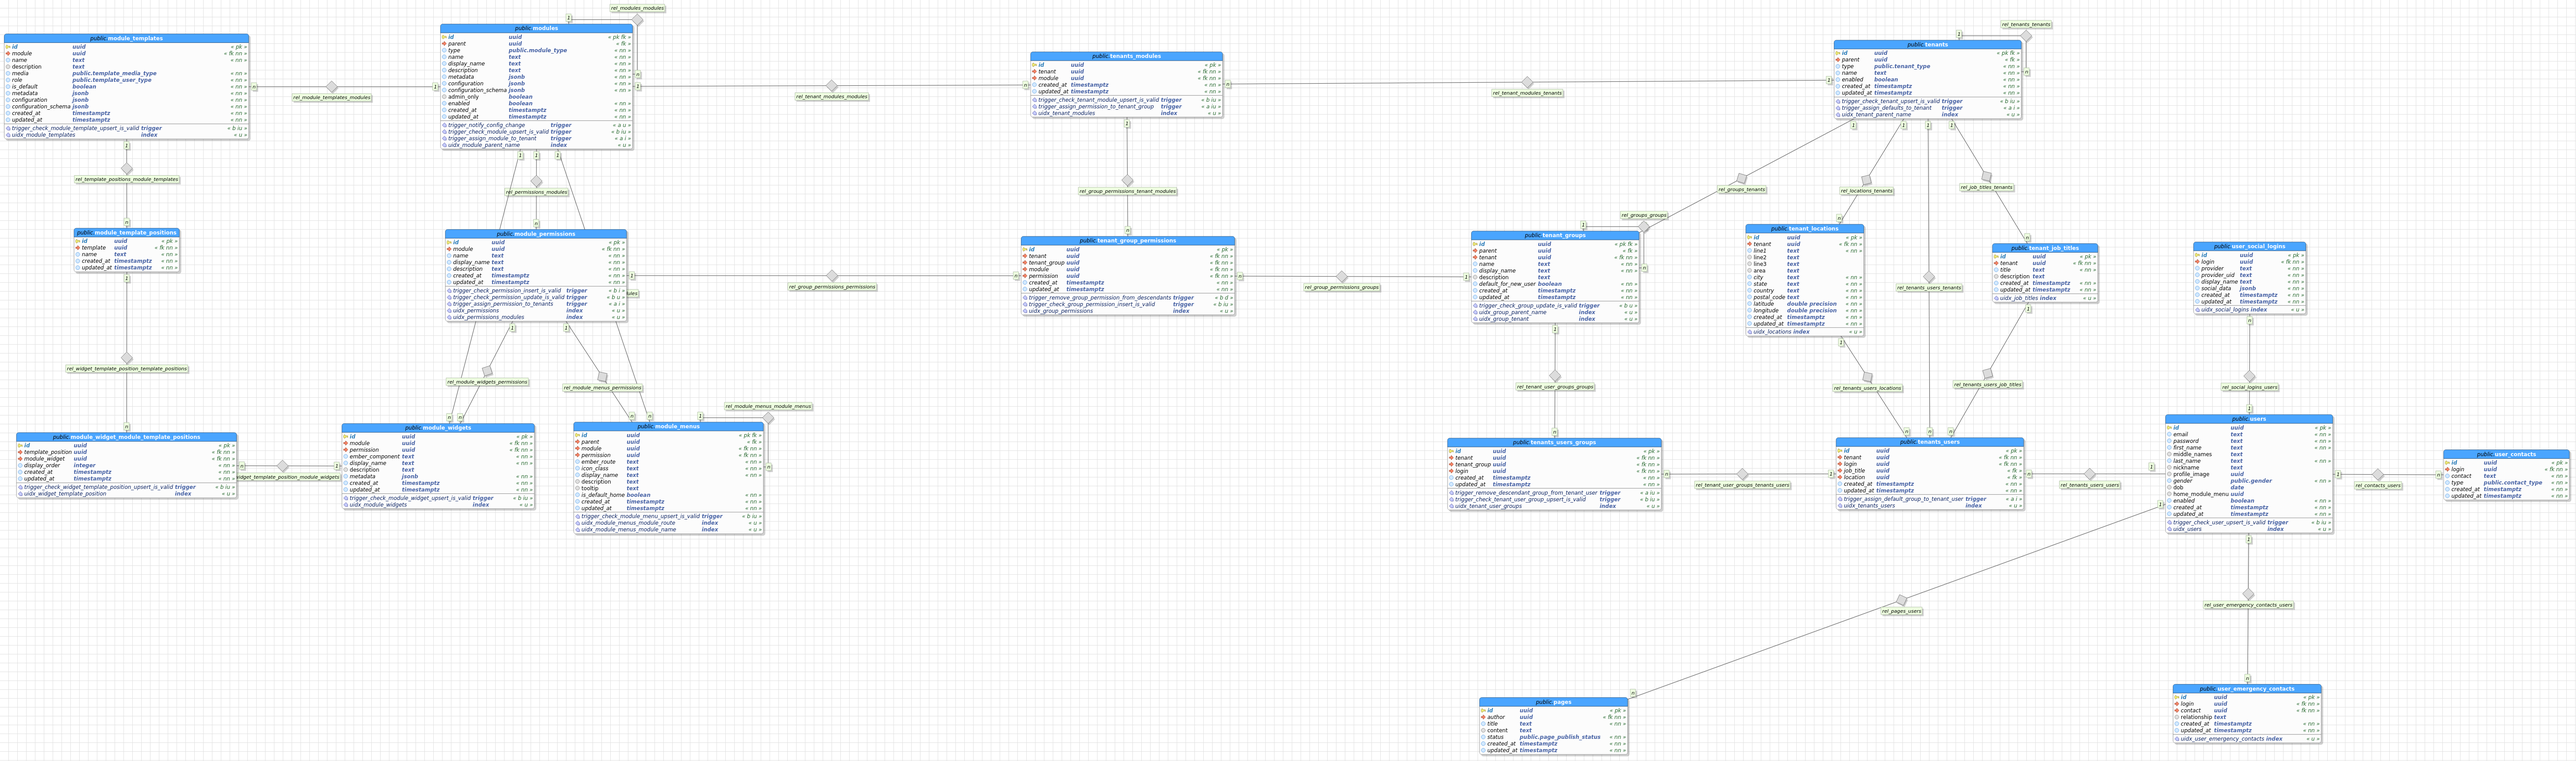
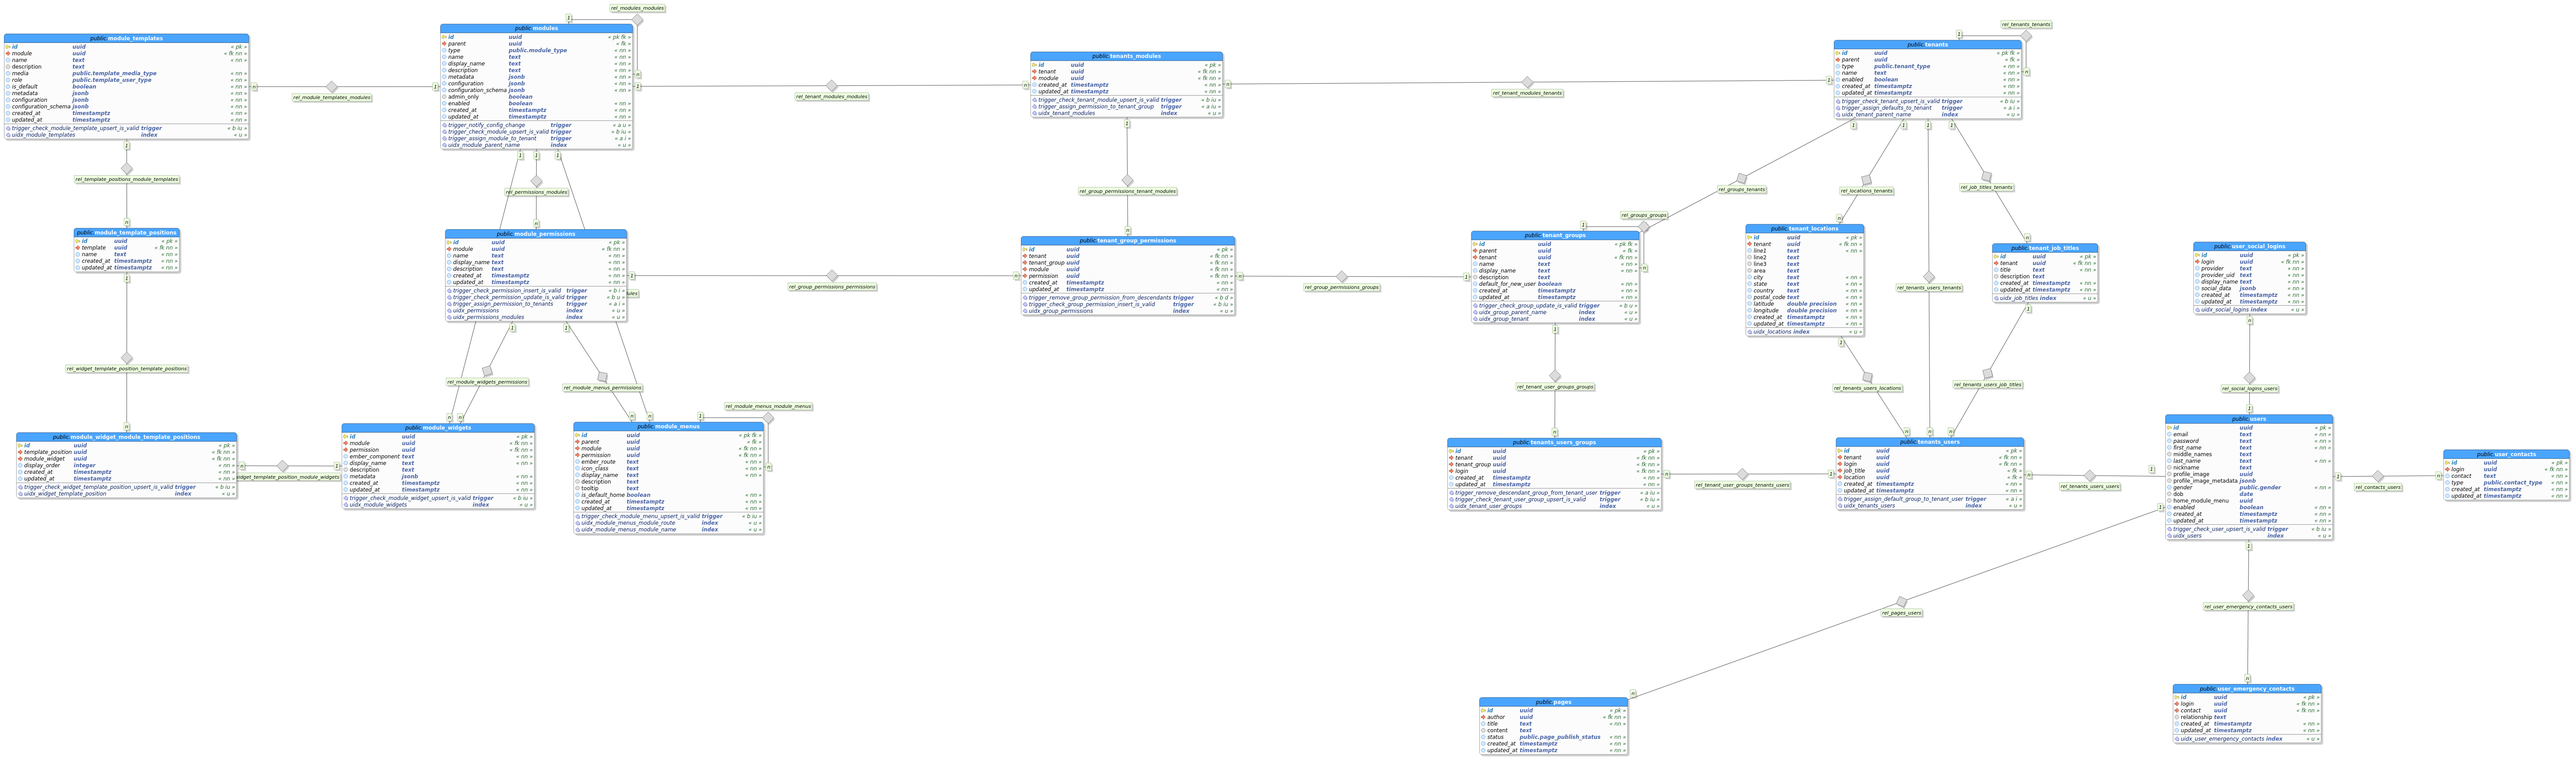
Moved image uploads to the Portal Server, added functionality for DnD Profile Image uploads, added functionality to upload images in the Pages component CK Editor, and minor changes

diff --git a/app/modules/components/pages/component.js b/app/modules/components/pages/component.js
@@ -50,7 +50,6 @@ var pagesComponent = prime({
 			})
 			.then(function(pageAuthorPermissionId) {
 				self['$pageAuthorPermissionId'] = pageAuthorPermissionId.rows[0].id;
-				self['$mediaLibraryPath'] = path.isAbsolute(self.$config.mediaLibraryPath) ? self.$config.mediaLibraryPath : path.join(self.basePath, self.$config.mediaLibraryPath);
 
 				// Define the models....
 				Object.defineProperty(self, '$UserModel', {
@@ -92,14 +91,6 @@ var pagesComponent = prime({
 	'_addRoutes': function() {
 		this.$router.get('/list', this._getPageList.bind(this));
 		this.$router.get('/publish-status-list', this._getPublishStatusList.bind(this));
-
-		this.$router.get('/getImage/:id', this._getImage.bind(this));
-
-		this.$router.post('/uploadImage', this._uploadImage.bind(this));
-		this.$router.post('/uploadFile', this._uploadImage.bind(this));
-
-		this.$router.post('/uploadDroppedFile', this._uploadDroppedImage.bind(this));
-		this.$router.post('/uploadDroppedImage', this._uploadDroppedImage.bind(this));
 
 		this.$router.get('/pages-defaults/:id', this._getPage.bind(this));
 		this.$router.post('/pages-defaults', this._addPage.bind(this));
@@ -168,82 +159,6 @@ var pagesComponent = prime({
 			loggerSrvc.error('Error servicing request "' + request.path + '":\nQuery: ', request.query, '\nBody: ', request.body, '\nParams: ', request.params, '\nError: ', err);
 			response.status(422).json({ 'code': 422, 'message': err.message || err.detail || 'Error fetching publish statuses from the database' });
 		});
-	},
-
-	'_getImage': function(request, response, next) {
-		var self = this,
-			loggerSrvc = self.dependencies['logger-service'];
-
-		loggerSrvc.debug('Servicing request ' + request.method + ' "' + request.originalUrl + '":\nQuery: ', request.query, '\nParams: ', request.params, '\nBody: ', request.body);
-
-		var imagePath = path.join(self.$mediaLibraryPath, request.params.id);
-		response.sendFile(imagePath);
-	},
-
-	'_uploadImage': function(request, response, next) {
-		var self = this,
-			Busboy = require('busboy'),
-			loggerSrvc = self.dependencies['logger-service'];
-
-		loggerSrvc.debug('Servicing request ' + request.method + ' "' + request.originalUrl + '":\nQuery: ', request.query, '\nParams: ', request.params, '\nBody: ', request.body);
-
-		var busboy = new Busboy({ 'headers': request.headers }),
-			fileName = null,
-			imageId = uuid.v4().toString(),
-			imageName = path.join(self.$mediaLibraryPath, imageId);
-
-		busboy.on('file', function(fieldname, file, filename, encoding, mimetype) {
-			fileName = filename;
-			imageName += path.extname(filename);
-			file.pipe(filesystem.createWriteStream(imageName));
-		});
-
-		busboy.on('finish', function() {
-			var html = '';
-			html += '<script type="text/javascript">';
-			html += '    var funcNum = ' + request.query.CKEditorFuncNum + ';\n';
-			html += '    var url     = "' + request.protocol + '://' + request.hostname + ':' + request.app.get('port') + '/pages/getImage/' + imageId + path.extname(fileName) + '";\n';
-			html += '    var message = "' + fileName + ' was uploaded successfully";\n\n';
-
-			html += '    window.parent.CKEDITOR.tools.callFunction(funcNum, url, message);\n';
-			html += '</script>';
-
-			response.set('Access-Control-Allow-Origin', request.get('Origin'));
-			response.set('Access-Control-Allow-Credentials', true);
-			response.set('Connection', 'close');
-			response.status(200).send(html);
-		});
-
-		request.pipe(busboy);
-	},
-
-	'_uploadDroppedImage': function(request, response, next) {
-		var self = this,
-			Busboy = require('busboy'),
-			loggerSrvc = self.dependencies['logger-service'];
-
-		loggerSrvc.debug('Servicing request ' + request.method + ' "' + request.originalUrl + '":\nQuery: ', request.query, '\nParams: ', request.params, '\nBody: ', request.body);
-
-		var busboy = new Busboy({ 'headers': request.headers }),
-			fileName = null,
-			imageId = uuid.v4().toString(),
-			imageName = path.join(self.$mediaLibraryPath, imageId);
-
-		busboy.on('file', function(fieldname, file, filename, encoding, mimetype) {
-			fileName = filename;
-			imageName += path.extname(filename);
-			file.pipe(filesystem.createWriteStream(imageName));
-		});
-
-		busboy.on('finish', function() {
-			response.status(200).send({
-				'uploaded': 1,
-				'fileName': fileName,
-				'url': request.protocol + '://' + request.hostname + ':' + request.app.get('port') + '/pages/getImage/' + imageId + path.extname(fileName)
-			});
-		});
-
-		request.pipe(busboy);
 	},
 
 	'_getPage': function(request, response, next) {

diff --git a/app/modules/components/profiles/component.js b/app/modules/components/profiles/component.js
@@ -22,8 +22,7 @@ var base = require('./../component-base').baseComponent,
  */
 var bcrypt = require('bcrypt-nodejs'),
 	filesystem = require('fs'),
-	path = require('path'),
-	uuid = require('node-uuid');
+	path = require('path');
 
 var profilesComponent = prime({
 	'inherits': base,
@@ -129,9 +128,6 @@ var profilesComponent = prime({
 		this.$router.get('/emergencyContact', this._getEmergencyContact.bind(this));
 		this.$router.get('/homepages', this._getHomepages.bind(this));
 
-		this.$router.get('/get-image', this._getProfileImage.bind(this));
-		this.$router.post('/upload-image', this._updateProfileImage.bind(this));
-
 		this.$router.get('/:id', this._getProfile.bind(this));
 		this.$router.patch('/:id', this._updateProfile.bind(this));
 
@@ -220,6 +216,8 @@ var profilesComponent = prime({
 		.fetch({ 'withRelated': ['profileContacts', 'profileEmergencyContacts', 'profileOthersEmergencyContacts', 'profileSocialLogins'] })
 		.then(function(profileData) {
 			profileData = self['$jsonApiMapper'].map(profileData, 'profiles');
+			profileData.data.attributes['profile_image_metadata'] = JSON.stringify(profileData.data.attributes['profile_image_metadata']);
+
 			delete profileData.data.attributes.password;
 			delete profileData.included;
 
@@ -262,6 +260,7 @@ var profilesComponent = prime({
 		self['$jsonApiDeserializer'].deserializeAsync(request.body)
 		.then(function(jsonDeserializedData) {
 			delete jsonDeserializedData.email;
+			delete jsonDeserializedData.profile_image_metadata;
 			delete jsonDeserializedData.created_at;
 			delete jsonDeserializedData.updated_at;
 
@@ -293,58 +292,6 @@ var profilesComponent = prime({
 				}]
 			});
 		});
-	},
-
-	'_getProfileImage': function(request, response, next) {
-		var self = this,
-			loggerSrvc = self.dependencies['logger-service'];
-
-		loggerSrvc.debug('Servicing request ' + request.method + ' "' + request.originalUrl + '":\nQuery: ', request.query, '\nParams: ', request.params, '\nBody: ', request.body);
-
-		new self.$UserModel({ 'id': request.user.id })
-		.fetch()
-		.then(function(user) {
-			var profileImageName = path.join(self.basePath, self.$config.profileImagePath, (user.get('profile_image') || 'anonymous') + '.png');
-			response.sendFile(profileImageName);
-			return null;
-		})
-		.catch(function(err) {
-			loggerSrvc.error('Error servicing request "' + request.path + '":\nQuery: ', request.query, '\nBody: ', request.body, '\nParams: ', request.params, '\nError: ', err);
-			response.status(422).json({ 'code': 422, 'message': err.message || err.detail || 'Error saving profile image to the database' });
-		});
-	},
-
-	'_updateProfileImage': function(request, response, next) {
-		var self = this,
-			Busboy = require('busboy'),
-			loggerSrvc = self.dependencies['logger-service'];
-
-		loggerSrvc.debug('Servicing request ' + request.method + ' "' + request.originalUrl + '":\nQuery: ', request.query, '\nParams: ', request.params, '\nBody: ', request.body);
-		response.type('application/javascript');
-
-		var busboy = new Busboy({ 'headers': request.headers }),
-			imageId = uuid.v4().toString(),
-			profileImageName = path.join(self.basePath, self.$config.profileImagePath, imageId);
-
-		busboy.on('file', function(fieldname, file, filename, encoding, mimetype) {
-			profileImageName += path.extname(filename);
-			file.pipe(filesystem.createWriteStream(profileImageName));
-		});
-
-		busboy.on('finish', function() {
-			new self.$UserModel({ 'id': request.user.id })
-			.save({ 'profile_image': imageId }, { 'patch' : true })
-			.then(function() {
-				response.status(200).json({ 'imageId': imageId });
-				return null;
-			})
-			.catch(function(err) {
-				loggerSrvc.error('Error servicing request "' + request.path + '":\nQuery: ', request.query, '\nBody: ', request.body, '\nParams: ', request.params, '\nError: ', err);
-				response.status(422).json({ 'code': 422, 'message': err.message || err.detail || 'Error saving profile image to the database' });
-			});
-		});
-
-		request.pipe(busboy);
 	},
 
 	'_getProfileContact': function(request, response, next) {

diff --git a/knex_migrations/migrations/20160426165450_twyr_webapp_schema.js b/knex_migrations/migrations/20160426165450_twyr_webapp_schema.js
@@ -48,6 +48,7 @@ exports.up = function(knex, Promise) {
 				userTbl.text('last_name').notNullable();
 				userTbl.text('nickname');
 				userTbl.uuid('profile_image');
+				userTbl.jsonb('profile_image_metadata');
 				userTbl.specificType('gender', 'public.gender').notNullable().defaultTo('other');
 				userTbl.timestamp('dob');
 				userTbl.uuid('home_module_menu');
@@ -1778,22 +1779,25 @@ exports.up = function(knex, Promise) {
 					'COST 1 ' +
 					'AS $$ ' +
 				'DECLARE ' +
-					'template_module 	UUID; ' +
-					'widget_module		UUID; ' +
-					'is_child_component		INTEGER; ' +
+					'template_module 			UUID; ' +
+					'template_module_parent 	UUID; ' +
+					'widget_module				UUID; ' +
+					'is_child_component			INTEGER; ' +
 				'BEGIN ' +
 					'template_module := NULL; ' +
+					'template_module_parent := NULL; ' +
 					'widget_module := NULL; ' +
 					'is_child_component := 0; ' +
 
 					'SELECT ' +
-						'module ' +
+						'id, parent ' +
 					'FROM ' +
-						'module_templates ' +
+						'modules ' +
 					'WHERE ' +
-						'id = (SELECT template FROM module_template_positions WHERE id = NEW.template_position) ' +
+						'id = (SELECT module FROM module_templates WHERE id = (SELECT template FROM module_template_positions WHERE id = NEW.template_position)) ' +
 					'INTO ' +
-						'template_module; ' +
+						'template_module, ' +
+						'template_module_parent; ' +
 
 					'SELECT ' +
 						'module ' +
@@ -1804,10 +1808,28 @@ exports.up = function(knex, Promise) {
 					'INTO ' +
 						'widget_module; ' +
 
+					'IF template_module_parent IS NOT NULL ' +
+					'THEN ' +
+						'SELECT ' +
+							'count(A.id) ' +
+						'FROM ' +
+							'(SELECT id FROM fn_get_module_descendants(template_module_parent) WHERE level = 2 AND type = \'component\') A ' +
+						'WHERE ' +
+							'A.id = widget_module ' +
+						'INTO ' +
+							'is_child_component; ' +
+
+						'IF is_child_component > 0 ' +
+						'THEN ' +
+							'RETURN NEW; ' +
+						'END IF; ' +
+					'END IF; ' +
+
+					'is_child_component := 0; ' +
 					'SELECT ' +
 						'count(A.id) ' +
 					'FROM ' +
-						'(SELECT id FROM fn_get_module_descendants(template_module) WHERE level <= 2) A ' +
+						'(SELECT id FROM fn_get_module_descendants(template_module) WHERE level <= 2 AND type = \'component\') A ' +
 					'WHERE ' +
 						'A.id = widget_module ' +
 					'INTO ' +
@@ -1815,7 +1837,7 @@ exports.up = function(knex, Promise) {
 
 					'IF is_child_component <= 0 ' +
 					'THEN ' +
-						'RAISE SQLSTATE \'2F003\' USING MESSAGE = \'Only widgets belonging to the same component or one of its children can be assigned to a components template\'; ' +
+						'RAISE SQLSTATE \'2F003\' USING MESSAGE = \'Only widgets belonging to the same component or one of its children or a sibling can be assigned to a components template\'; ' +
 						'RETURN NULL; ' +
 					'END IF; ' +
 

diff --git a/app/modules/components/modules/component.js b/app/modules/components/modules/component.js
@@ -285,13 +285,32 @@ var modulesComponent = prime({
 				throw new Error('Unauthorized Access');
 			}
 
-			return dbSrvc.knex.raw('SELECT module FROM module_templates WHERE id = ?', [request.params.templateId]);
+			return dbSrvc.knex.raw('SELECT id, parent FROM modules WHERE id = (SELECT module FROM module_templates WHERE id = ?)', [request.params.templateId]);
 		})
 		.then(function(templateModuleId) {
-			return dbSrvc.knex.raw('SELECT id, ember_component AS name, display_name AS displayname, description FROM module_widgets WHERE module IN (SELECT id FROM fn_get_module_descendants(?) WHERE level <= 2)', [templateModuleId.rows[0].module]);
+			var promiseResolutions = [];
+			promiseResolutions.push(dbSrvc.knex.raw('SELECT id, ember_component AS name, display_name AS displayname, description FROM module_widgets WHERE module IN (SELECT id FROM fn_get_module_descendants(?) WHERE level <= 2 AND type = \'component\')', [templateModuleId.rows[0].id]));
+			if(templateModuleId.rows[0].parent) {
+				promiseResolutions.push(dbSrvc.knex.raw('SELECT id, ember_component AS name, display_name AS displayname, description FROM module_widgets WHERE module IN (SELECT id FROM fn_get_module_descendants(?) WHERE level = 2 AND type = \'component\')', [templateModuleId.rows[0].parent]));
+			}
+
+			return promises.all(promiseResolutions);
 		})
-		.then(function(availableWidgets) {
-			response.status(200).json(availableWidgets.rows);
+		.then(function(results) {
+			var availableWidgets = [],
+				usedIds = [];
+
+			results.forEach(function(widgets) {
+				widgets.rows.forEach(function(widget) {
+					if(usedIds.indexOf(widget.id) >= 0)
+						return;
+
+					usedIds.push(widget.id);
+					availableWidgets.push(widget);
+				});
+			});
+
+			response.status(200).json(availableWidgets);
 			return null;
 		})
 		.catch(function(err) {
